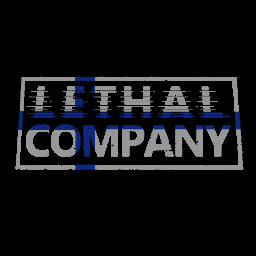
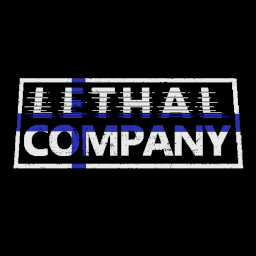
Add 24-hour clock, config file and texture translations

Changed region(s): [[0.0312, 0.2812, 0.9688, 0.6875]]

diff --git a/CHANGELOG.md b/CHANGELOG.md
@@ -32,3 +32,11 @@
 - Added missing translations for rest of the terminal.
 - Fixed many other translations.
 - **Note:** This will likely be the final "regular" update, even though there are still at least a couple of missing translations that have proven especially difficult to deal with. I strongly urge you to [open an issue](https://github.com/AceHanded/LC-Finnish-Localization-Mod/issues) on the mod's GitHub page if you discover a translation that you think is either missing, spelt wrong, or just blatantly incorrect. I will try to correct the opened issues as soon as possible.
+
+## Version 1.2.0
+- Converted the in-game clock into 24-hour format.
+- Added a config file, which lets you modify your preferred unit of mass, as well as clock format.
+  * Located in `/BepInEx/config/com.acehanded.lethalcompany.finloc.cfg`, and requires the game to be launched once before being generated.
+- Added translations to some UI textures.
+- Updated the mod icon to look less grey, and replaced the main menu icon with it.
+- General fixes to translations.
